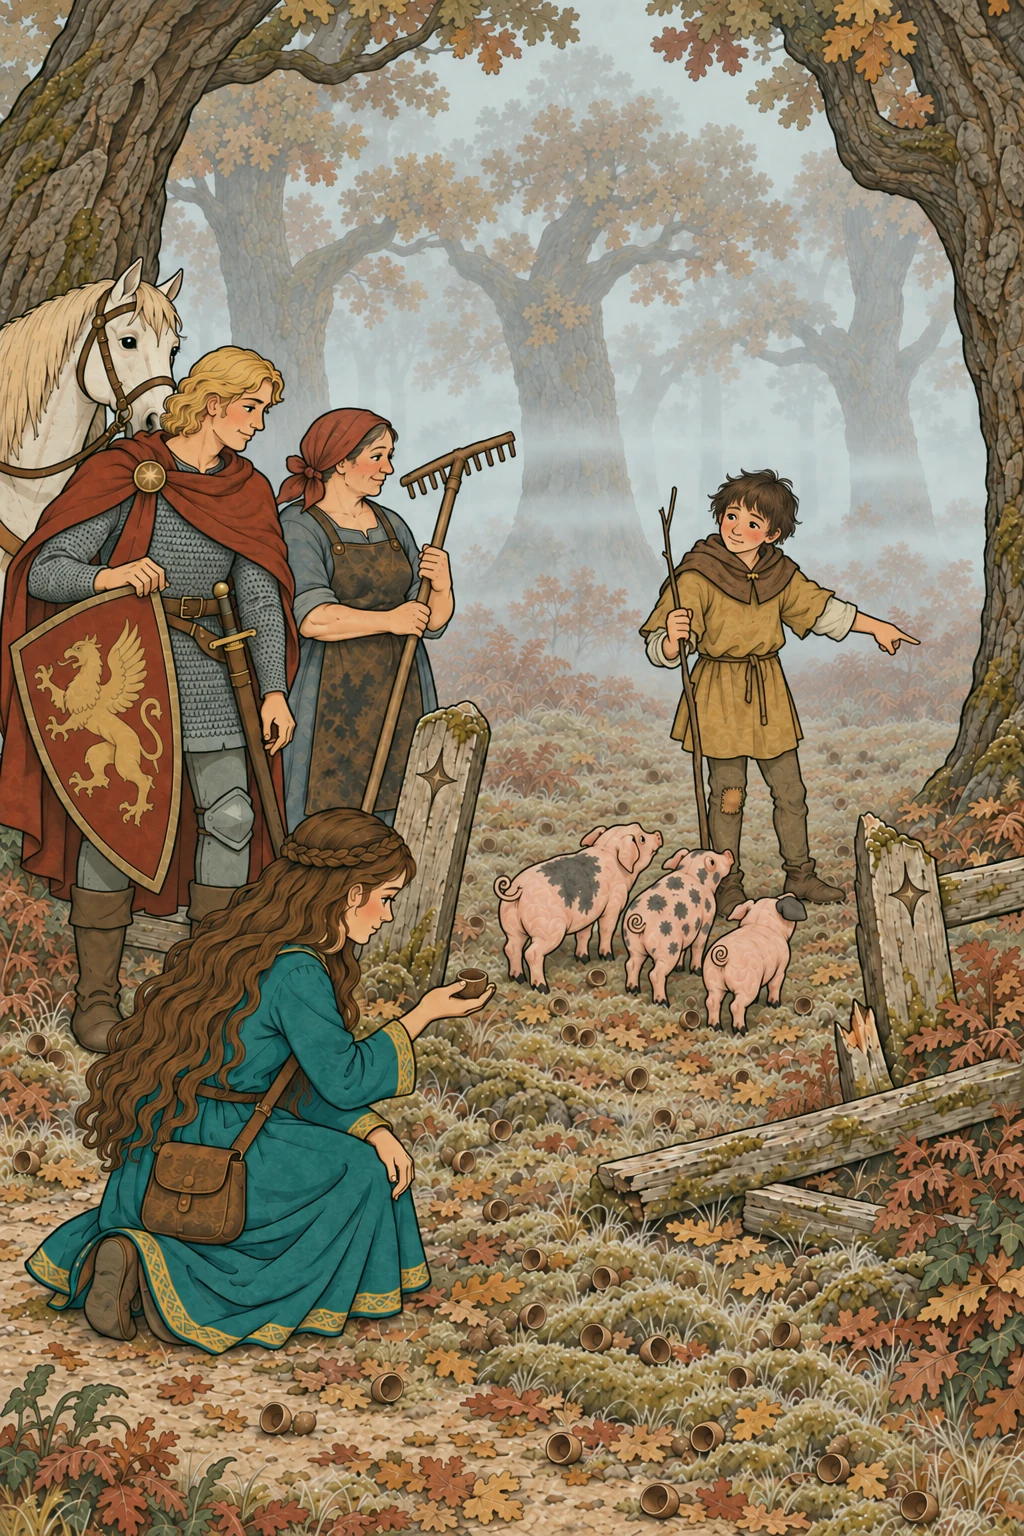
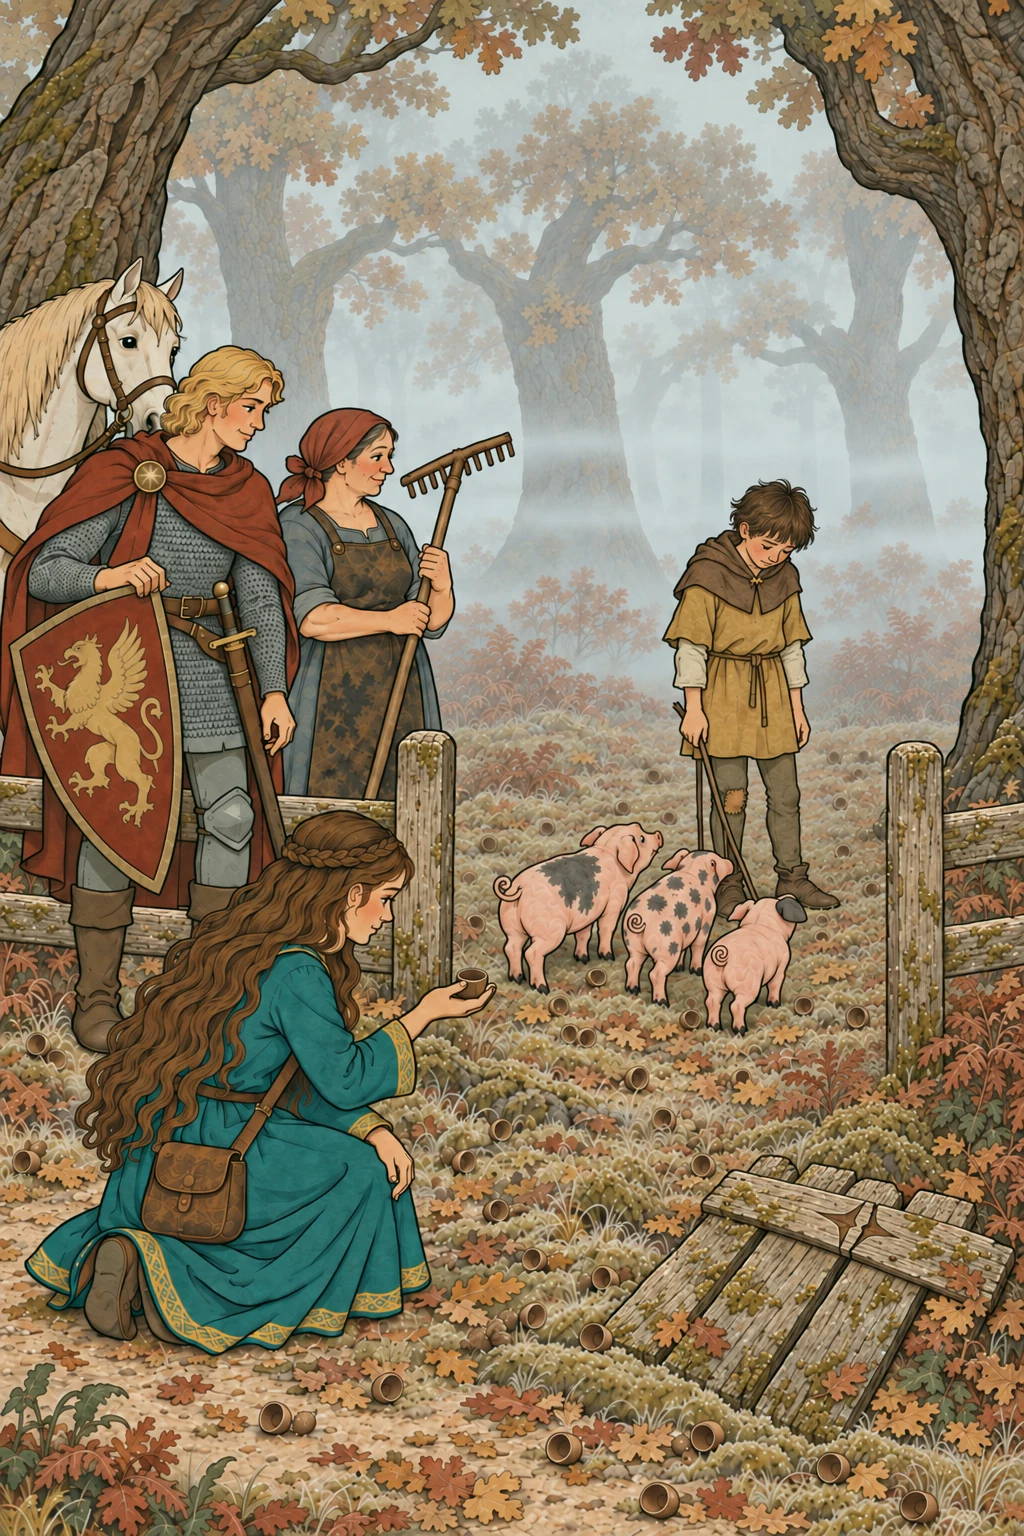
Forest pictures redrawn around the one star gate: p2-p5, p9, ending emblem
Agata holds her rake on p2; the fence is plain and the star sits only on
the gate's crossbar, broken on p3-p5, restored on p9 and the emblem.

diff --git a/src/book/pages.js b/src/book/pages.js
@@ -31,7 +31,7 @@
 // (pennant), p5-bread 0.2 (mill), p6 0.4, p7-crumbs 0.45 (Oliwia to the dragon's head), p7-warm-path 0.85
 // (cradle), p8 0.4 (pennant, lit inn), p9-name-promise 0.7 (pennant, five villagers),
 // p9-wave-goodnight 0.5. Moonhill p7-thank-bell 0.45 (Janina's pointing hand, the baker's basket).
-// Forest p7-give-sack 0.94 (Marcin carving the gate), p9-make-way 0.8 (the stag's antlers to Agata).
+// Forest p7-give-sack 0.94 (Marcin carving the gate), p9-make-way 0.82 (the stag's antlers to Agata).
 // Tailpieces are the shared marginal ornaments, so each tale gets plants and small beasts, not one motif.
 
 const V = "/assets/illustrations/v2";

diff --git a/prototypes/prompts/_build_forest.py b/prototypes/prompts/_build_forest.py
@@ -344,6 +344,22 @@ fix("fo-p2", "fo-p2c", "every person and animal, their poses, faces and costumes
     "Agata's rake: she HOLDS it upright in her other hand, the hand that was hanging at her side, her fingers closed round the handle; the rake no longer stands by itself.",
     neg="no rake standing by itself; no tool leaning on nothing")
 MIST_FIRST.add("fo-p2c")
+# p2c kept the free-standing rake and gave Agata a bare stick: build on p2c and turn THAT stick into the rake
+fix("fo-p2", "fo-p2d", "every person and animal, their poses, faces and costumes, Agata cupping her ear with her right hand, her lowered left hand gripping the wooden handle, the camera, the clearing, the oaks, the mist, the light and colours",
+    "(1) The wooden handle Agata grips in her lowered left hand becomes her rake: the SAME handle, continuing up past her hand to a toothed rake head just above her shoulder; its foot rests on the ground by her boot. (2) The separate rake standing on its own to the right of Agata is REMOVED completely: in its place only misty oaks, ferns and fallen leaves. Agata has exactly ONE rake, the one in her hand.",
+    neg="no second rake; no rake standing by itself; no tool leaning on nothing; no bare stick")
+MIST_FIRST.add("fo-p2d")
+# second pass on the gate block: each from its own last take, one detail
+fix("fo-p6", "fo-p6d", "every person and animal, their poses, faces and costumes, Agata's hand on the gate and her rake, the broken gate leaning against the post, the fence, the camera, the mist, the light and colours",
+    "The star on the old gate's crossbar is CARVED into the grey wood (a cut groove, the same weathered grey-brown as the wood, no gold, no paint), and a CRACK splits the crossbar straight through the star: the star is broken in two halves by the crack.",
+    neg="no gold star; no painted star; no whole, unbroken star; no star on any post")
+MIST_FIRST.add("fo-p6d")
+fix("fo-p7-give-sack", "fo-p7-give-sacke", "every person and animal, their poses, faces and costumes, the new pale gate and its half-carved star, the old broken gate leaning at the right, the acorns, the camera, the light and colours",
+    "Marcin's tool is a small WOOD CHISEL, not a knife: a short wooden handle and a narrow straight steel shank ending in a flat, square cutting edge set against the star's groove; he pushes it with his hand like a carpenter.",
+    neg="no knife; no pointed blade; no whittling")
+fix("fo-p8", "fo-p8e", "every person and animal, their poses, faces and costumes, the fence and the new gate with its star, the old broken gate, the deer behind the fallen branch, the camera, the mist, the light and colours",
+    "Agata's hand that was resting on her chest now GRIPS the rake handle right beside it, her fingers closed round the wood at chest height; the rake's teeth rest on the ground. Her other hand hangs at her side.",
+    neg="no hand on her heart; no rake leaning on her with no hand on it; no rake standing by itself")
 # the siblings not generated yet: from their brother's new take (copied to <pid>-composition.png once accepted)
 fix("fo-p7-gather-forest", "fo-p7-gather-forestb", "camera, the fence and the NEW PALE GATE with the half-carved star, Gustaw holding the gate, Marcin kneeling and carving the star on its crossbar with the chisel, the old broken gate leaning beside him, Agata and Oliwia at the rail, Koniczynka at the left, the acorns on the moss, the light and colours", SIBLING + " Koniczynka carries NO sack.", neg="no sack; no basket; " + GATE_NEG)
 fix("fo-p9-help-fawn", "fo-p9-help-fawnb", "camera, the curving path, the stag and its pose, the group of people following far behind it and their poses, the Heartwood's plain fence with its open new gate in the background, the parting mist, light and colours", SIBLING + " The doe and the fawn walk just behind the stag, between it and the people, with an empty stretch of path before the children; far back, the oak branch lies pulled aside along the edge of the trail.", neg=GATE_NEG)
